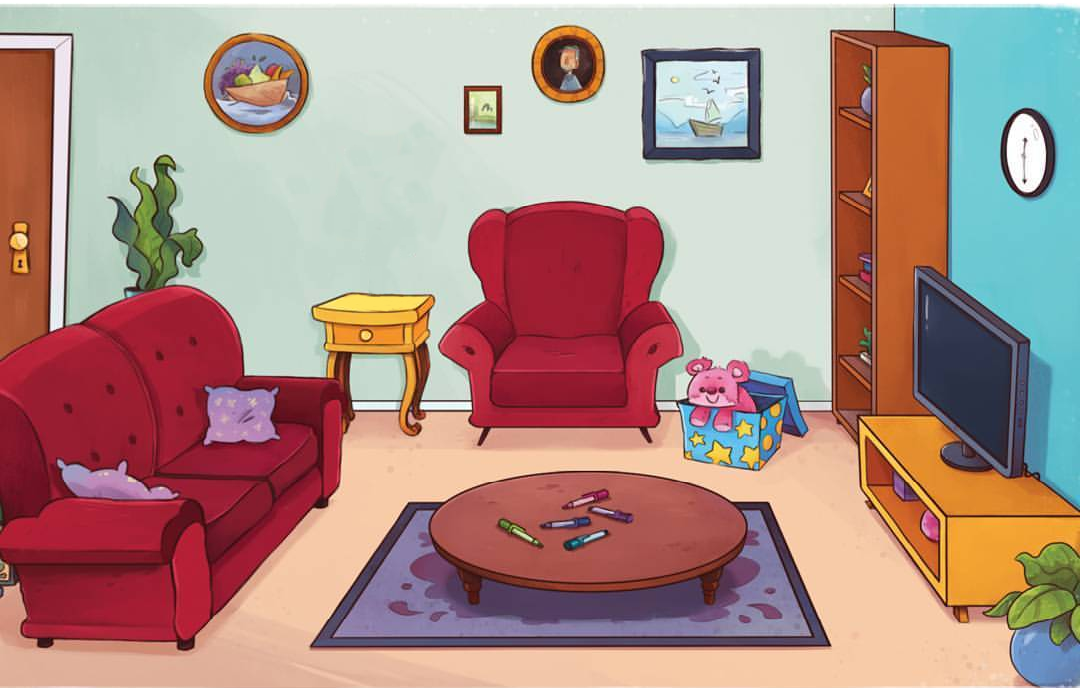
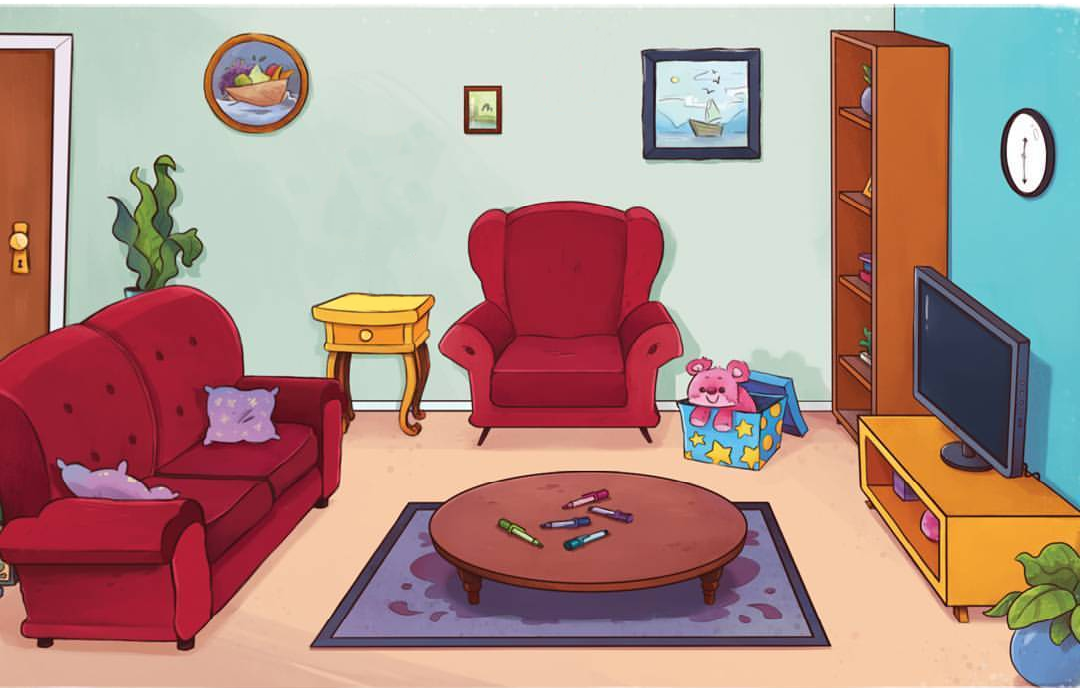
added clock ,and test furnature function

Changed region(s): [[0.4889, 0.0305, 0.5806, 0.1526]]

diff --git a/docs/js/main.js b/docs/js/main.js
@@ -39,7 +39,11 @@ var Furniture = (function () {
     };
     return Furniture;
 }());
-window.addEventListener("load", function () { return new Furniture(31, 27.5, "url(assets/present.png)", "a thing", "url(assets/lamp.png)"); });
+window.addEventListener("load", function () { return testFurniture(); });
+function testFurniture() {
+    new Furniture(31, 27.5, "url(assets/present.png)", "a thing", "url(assets/lamp.png)");
+    new Furniture(40, 5, "url(assets/present.png)", "a different thing", "url(assets/clock.png)");
+}
 var Game = (function () {
     function Game() {
         console.log("Class Game Loaded");

diff --git a/dev/Furniture.ts b/dev/Furniture.ts
@@ -67,4 +67,10 @@ class Furniture{
 
 }
 
-window.addEventListener("load", () => new Furniture(31,27.5,"url(assets/present.png)","a thing","url(assets/lamp.png)"))
+window.addEventListener("load", () => testFurniture())
+
+function testFurniture() {
+    new Furniture(31,27.5,"url(assets/present.png)","a thing","url(assets/lamp.png)")
+    new Furniture(40,5,"url(assets/present.png)","a different thing","url(assets/clock.png)")
+
+}
